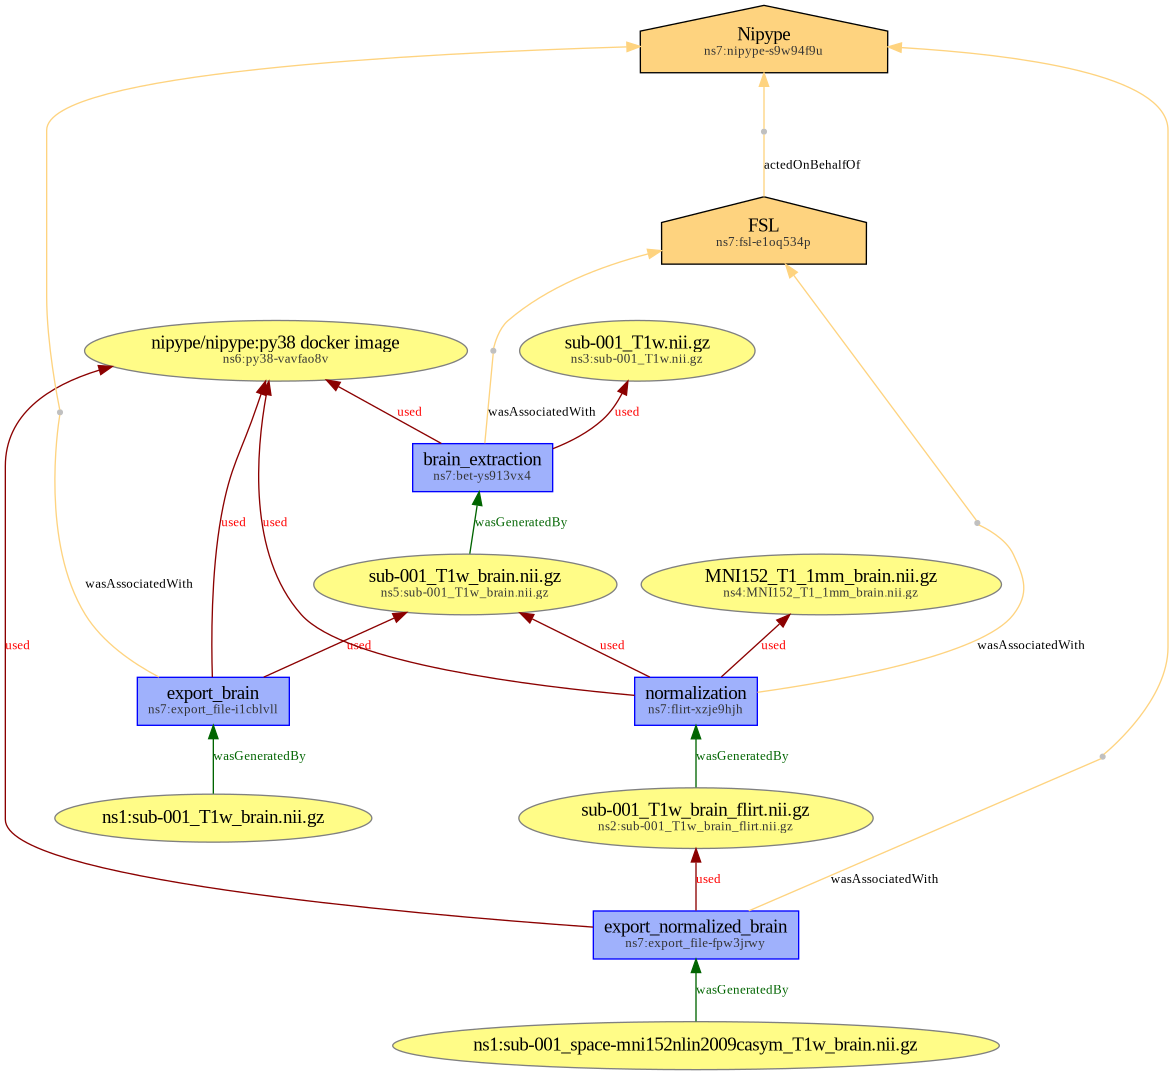
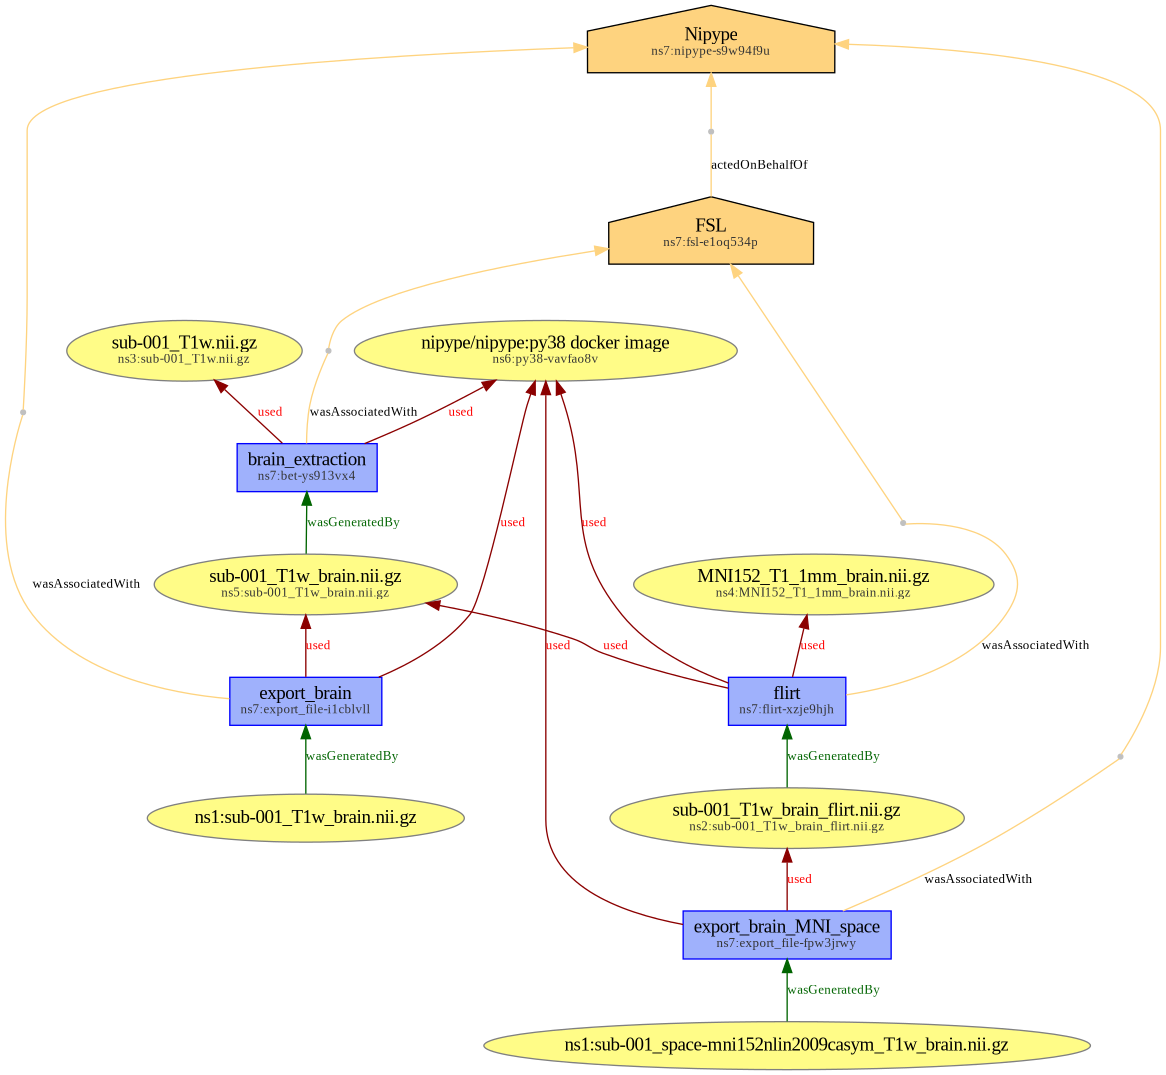
Replace normalize by flirt

diff --git a/examples/nipype/code/merge_prov.py b/examples/nipype/code/merge_prov.py
@@ -8,16 +8,16 @@ from pathlib import Path
 
 # List of available prov files
 prov_soft_files = [
-	'prov/prov-flirt_soft.prov.json'
+	'derivatives/flirt/prov/prov-flirt_soft.prov.json'
 ]
 prov_env_files = [
-	'prov/prov-flirt_env.prov.json'
+	'derivatives/flirt/prov/prov-flirt_env.prov.json'
 ]
 prov_act_files = [
 	'derivatives/flirt/sub-001/anat/sub-001_prov-flirt_act.prov.json'
 ]
 prov_ent_files = [
-	'prov/prov-flirt_ent.prov.json'
+	'derivatives/flirt/prov/prov-flirt_ent.prov.json'
 ]
 sidecar_files = [
 	'derivatives/flirt/sub-001/anat/sub-001_T1w_brain.json',
@@ -34,7 +34,7 @@ base_provenance = {
 }
 
 # Add context and version
-with open('prov/prov-flirt_base.prov.json', encoding = 'utf-8') as file:
+with open('derivatives/flirt/prov/prov-flirt_base.prov.json', encoding = 'utf-8') as file:
 	base_provenance.update(json.load(file))
 
 # Parse Software
@@ -90,5 +90,5 @@ for sidecar_file in sidecar_files:
 					})
 
 # Write jsonld
-with open('prov/merged/prov-flirt.prov.jsonld', 'w', encoding = 'utf-8') as file:
+with open('derivatives/flirt/prov/merged/prov-flirt.prov.jsonld', 'w', encoding = 'utf-8') as file:
 	file.write(json.dumps(base_provenance, indent = 2))

diff --git a/examples/nipype/code/normalize.py b/examples/nipype/code/normalize.py
@@ -26,14 +26,14 @@ workflow.connect(brain_extraction, 'out_file', flirt, 'in_file')
 export_brain = Node(ExportFile(), name = 'export_brain')
 export_brain.inputs.clobber = True
 export_brain.inputs.out_file = abspath(
-	'derivatives/normalize/sub-001/anat/sub-001_T1w_brain.nii.gz')
+	'derivatives/flirt/sub-001/anat/sub-001_T1w_brain.nii.gz')
 workflow.connect(brain_extraction, 'out_file', export_brain, 'in_file')
 
-export_normalized_brain = Node(ExportFile(), name = 'export_normalized_brain')
-export_normalized_brain.inputs.clobber = True
-export_normalized_brain.inputs.out_file = abspath(
-	'derivatives/normalize/sub-001/anat/sub-001_space-mni152nlin2009casym_T1w_brain.nii.gz')
-workflow.connect(brain_extraction, 'out_file', export_normalized_brain, 'in_file')
+export_brain_MNI_space = Node(ExportFile(), name = 'export_brain_MNI_space')
+export_brain_MNI_space.inputs.clobber = True
+export_brain_MNI_space.inputs.out_file = abspath(
+	'derivatives/flirt/sub-001/anat/sub-001_space-mni152nlin2009casym_T1w_brain.nii.gz')
+workflow.connect(brain_extraction, 'out_file', export_brain_MNI_space, 'in_file')
 
 # Run workflow
 workflow.run()

diff --git a/examples/nipype/README.md b/examples/nipype/README.md
@@ -16,7 +16,7 @@ See [hereafter](#running-the-workflow) for more details on how to run the workfl
 In order to describe provenance records using BIDS Prov, we use:
 
 * the `GeneratedBy` field of JSON sidecar files, already existing in the BIDS specification;
-* modality agnostic files inside the `prov/` directory
+* modality agnostic files inside the `derivatives/flirt/prov/` directory
 * a modality agnostic file inside the `derivatives/flirt/sub-001/anat/` directory
 
 After running the workflow and adding provenance traces, the resulting directory tree looks like this:
@@ -55,7 +55,7 @@ The python script `code/merge_prov.py` aims at merging all provenance records in
 
 ```shell
 pip install bids-prov==0.1.0
-mkdir prov/merged/
+mkdir derivatives/flirt/prov/merged/
 python code/merge_prov.py
 ```
 
@@ -69,7 +69,7 @@ We are then able to visualize these provenance files using the following command
 
 ```shell
 pip install bids-prov==0.1.0
-bids_prov_visualizer --input_file prov/merged/prov-flirt.prov.jsonld --output_file prov/merged/prov-flirt.prov.png
+bids_prov_visualizer --input_file derivatives/flirt/prov/merged/prov-flirt.prov.jsonld --output_file derivatives/flirt/prov/merged/prov-flirt.prov.png
 ```
 
 ![](/examples/nipype/prov/merged/prov-flirt.prov.png)
